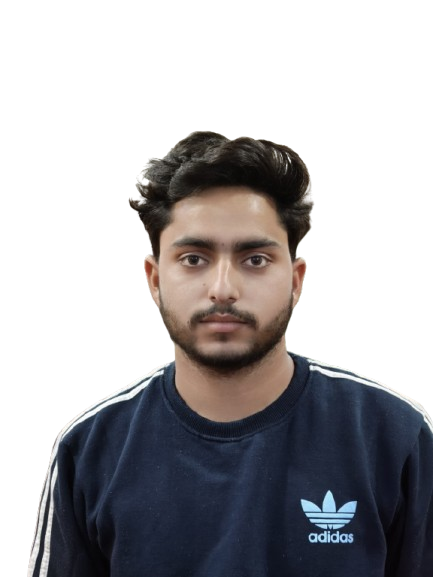
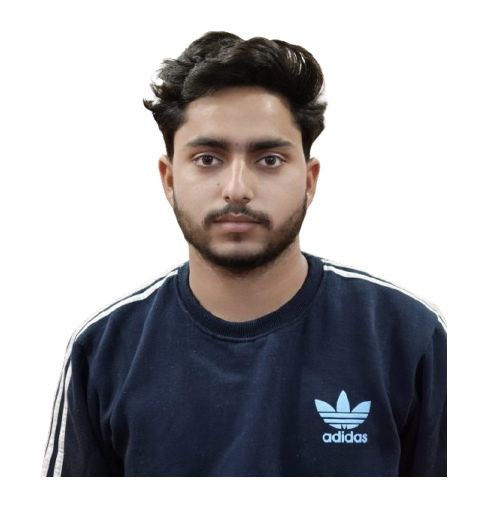
about image css changes image fit to the frame

diff --git a/src/components/About.css b/src/components/About.css
@@ -49,6 +49,13 @@
   overflow: hidden;
 }
 
+.avatar-placeholder img {
+  width: 100%;
+  height: 100%;
+  object-fit: cover;
+  border-radius: 50%;
+}
+
 .avatar-initials {
   font-family: var(--font-display);
   font-size: 5rem;
